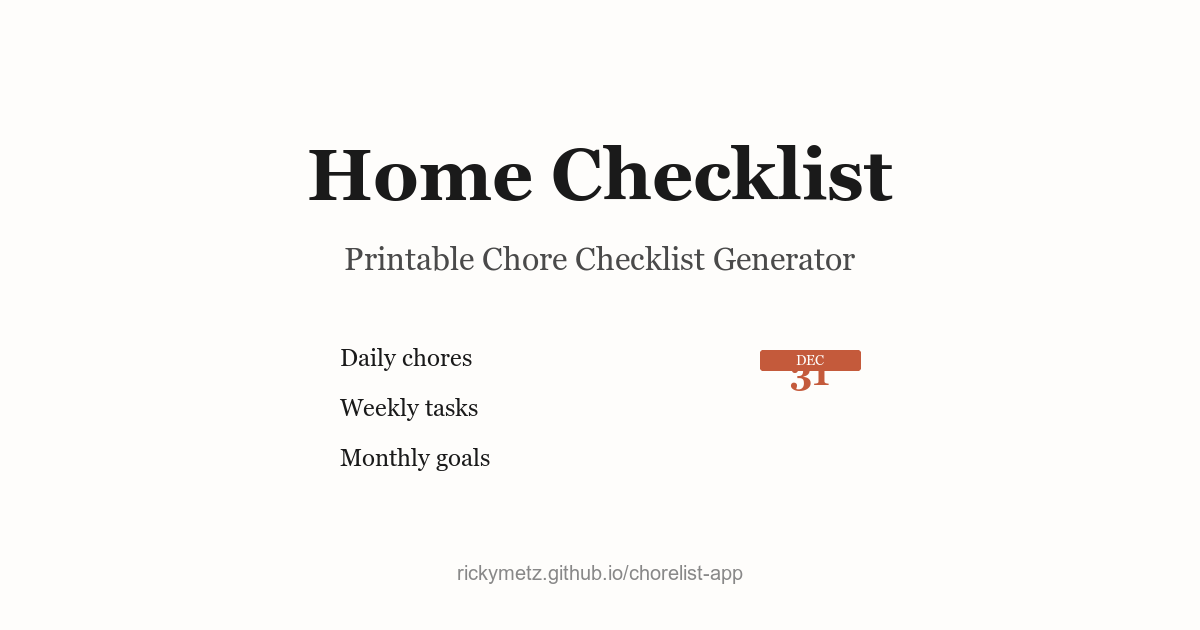
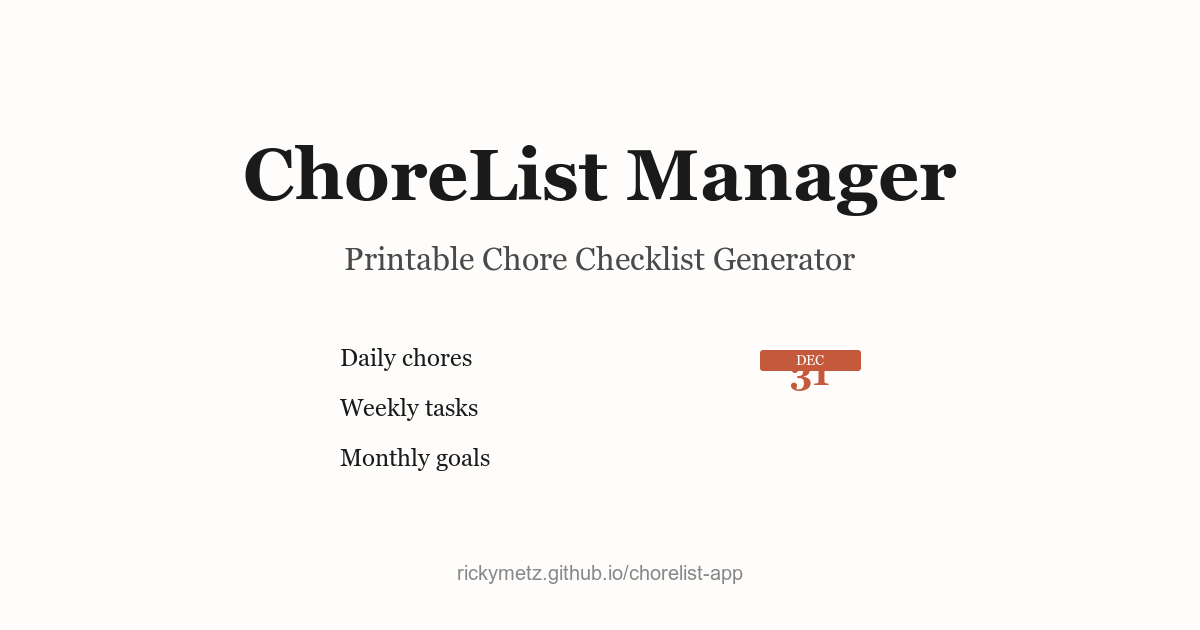
Rename 'Home Checklist' to 'ChoreList Manager' throughout the site

Changed region(s): [[0.185, 0.2111, 0.8017, 0.3619]]

diff --git a/app.js b/app.js
@@ -1,5 +1,5 @@
 // ========================================
-// Home Checklist App - Multi-Page Edition
+// ChoreList Manager - Multi-Page Edition
 // ========================================
 
 // Default sections for a new page
@@ -65,7 +65,7 @@ function createDefaultPage(id, monthOffset = 0) {
   
   return {
     id: id,
-    title: 'Home Checklist',
+    title: 'ChoreList Manager',
     month: monthStr,
     baseSize: 10,
     scaleRatio: 1.250,
@@ -211,7 +211,7 @@ function updateUrlWithState() {
     // Use array format: [weekStartDay?, title?, baseSize?, scaleRatio?, sections, months]
     let idx = 0;
     if (state.weekStartDay !== 1) urlData[idx++] = state.weekStartDay;
-    if (master.title !== 'Home Checklist') urlData[idx++] = master.title;
+    if (master.title !== 'ChoreList Manager') urlData[idx++] = master.title;
     if (master.baseSize !== 10) urlData[idx++] = master.baseSize;
     if (master.scaleRatio !== 1.250) urlData[idx++] = master.scaleRatio;
     urlData[idx++] = compressSections(master.sections);
@@ -260,7 +260,7 @@ function loadStateFromUrl() {
     
     // Detect format: array format [weekStartDay?, title?, baseSize?, scaleRatio?, sections, months]
     const isArrayFormat = Array.isArray(urlData);
-    let weekStartDay = 1, title = 'Home Checklist', baseSize = 10, scaleRatio = 1.250, sections, months;
+    let weekStartDay = 1, title = 'ChoreList Manager', baseSize = 10, scaleRatio = 1.250, sections, months;
     
     if (isArrayFormat) {
       // New ultra-compact array format
@@ -282,7 +282,7 @@ function loadStateFromUrl() {
     } else {
       // Old object format (backward compatibility)
       weekStartDay = urlData.w !== undefined ? urlData.w : 1;
-      title = urlData.t || 'Home Checklist';
+      title = urlData.t || 'ChoreList Manager';
       baseSize = Math.max(6, urlData.b || 10);
       scaleRatio = urlData.r || 1.250;
       sections = urlData.s;
@@ -578,7 +578,7 @@ function loadState() {
       // Migrate from old single-page format
       state.pages = [{
         id: 'page-1',
-        title: saved.title || 'Home Checklist',
+        title: saved.title || 'ChoreList Manager',
         month: saved.startMonth || new Date().getFullYear() + '-' + String(new Date().getMonth() + 1).padStart(2, '0'),
         baseSize: Math.max(6, saved.baseSize || 10),
         scaleRatio: saved.scaleRatio || 1.250,
@@ -1333,7 +1333,7 @@ function attachPageCardEventListeners() {
   // Page title input
   document.querySelectorAll('.page-title-input').forEach(input => {
     input.addEventListener('input', (e) => {
-      masterPage.title = e.target.value || 'Home Checklist';
+      masterPage.title = e.target.value || 'ChoreList Manager';
       syncToAllPages();
       saveState();
       renderPrintablePages();
@@ -1831,7 +1831,7 @@ function setupEventListeners() {
       const monthStr = year + '-' + String(month + 1).padStart(2, '0');
       newPages.push({
         id: `page-${pageNum}`,
-        title: 'Home Checklist',
+        title: 'ChoreList Manager',
         month: monthStr,
         baseSize: Math.max(6, state.pages[0]?.baseSize || 10),
         scaleRatio: state.pages[0]?.scaleRatio || 1.250,

diff --git a/index.html b/index.html
@@ -5,27 +5,27 @@
   <meta name="viewport" content="width=device-width, initial-scale=1.0">
   
   <!-- Primary Meta Tags -->
-  <title>Home Checklist - Printable Chore Checklist Generator</title>
-  <meta name="title" content="Home Checklist - Printable Chore Checklist Generator">
+  <title>ChoreList Manager - Printable Chore Checklist Generator</title>
+  <meta name="title" content="ChoreList Manager - Printable Chore Checklist Generator">
   <meta name="description" content="Create customizable printable household chore checklists with daily, weekly, and monthly sections. Share your checklist via URL or export as Markdown.">
   <meta name="keywords" content="checklist, chores, household, printable, organizer, task list, home management">
-  <meta name="author" content="Home Checklist">
+  <meta name="author" content="ChoreList Manager">
   
   <!-- Open Graph / Facebook -->
   <meta property="og:type" content="website">
   <meta property="og:url" content="https://rickymetz.github.io/chorelist-app/">
-  <meta property="og:title" content="Home Checklist - Printable Chore Checklist Generator">
+  <meta property="og:title" content="ChoreList Manager - Printable Chore Checklist Generator">
   <meta property="og:description" content="Create customizable printable household chore checklists with daily, weekly, and monthly sections. Share your checklist via URL or export as Markdown.">
   <meta property="og:image" content="https://rickymetz.github.io/chorelist-app/assets/images/og-image.png">
   <meta property="og:image:width" content="1200">
   <meta property="og:image:height" content="630">
-  <meta property="og:site_name" content="Home Checklist">
+  <meta property="og:site_name" content="ChoreList Manager">
   <meta property="og:locale" content="en_US">
   
   <!-- Twitter -->
   <meta name="twitter:card" content="summary_large_image">
   <meta name="twitter:url" content="https://rickymetz.github.io/chorelist-app/">
-  <meta name="twitter:title" content="Home Checklist - Printable Chore Checklist Generator">
+  <meta name="twitter:title" content="ChoreList Manager - Printable Chore Checklist Generator">
   <meta name="twitter:description" content="Create customizable printable household chore checklists with daily, weekly, and monthly sections.">
   <meta name="twitter:image" content="https://rickymetz.github.io/chorelist-app/assets/images/og-image.png">
   

diff --git a/styles.css b/styles.css
@@ -1,5 +1,5 @@
 /* ========================================
-   Home Checklist - Print-Ready Styles
+   ChoreList Manager - Print-Ready Styles
    ======================================== */
 
 :root {

diff --git a/README.md b/README.md
@@ -1,4 +1,4 @@
-# Home Checklist
+# ChoreList Manager
 
 A printable household chore checklist generator with customizable daily, weekly, and monthly sections.
 
